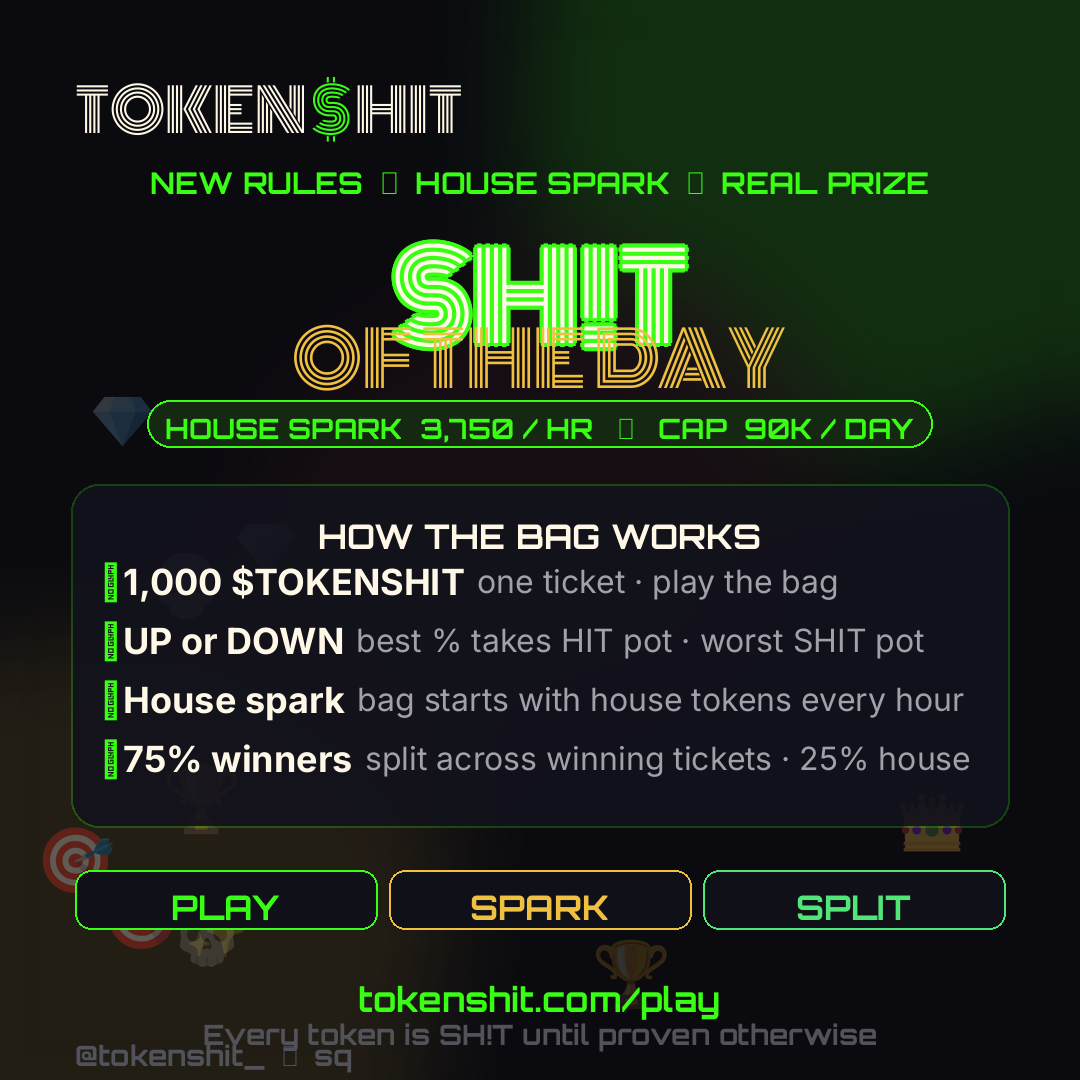
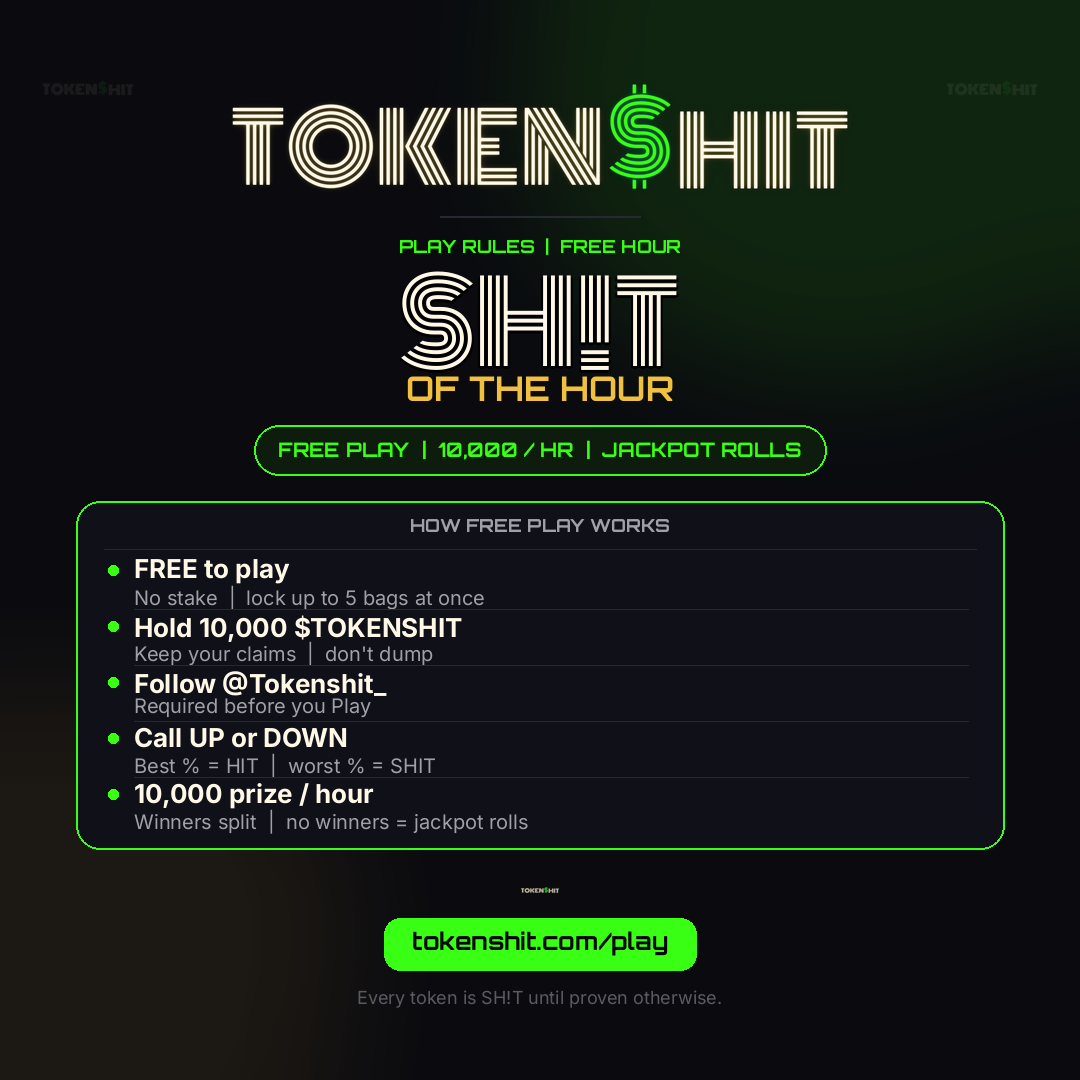
feat: free Play square poster (10k/hr, 5 bags, hold 10k)
Regenerate brand play poster for free hour rules.

diff --git a/scripts/generate-play-poster.py b/scripts/generate-play-poster.py
@@ -157,7 +157,7 @@ def build() -> Image.Image:
     d.line([(mid - 100, y), (mid + 100, y)], fill=LINE, width=2)
     y += 22
 
-    y = draw_centered(d, y, "PLAY RULES  |  HOUSE PRIZE", f_eye, NEON) + 16
+    y = draw_centered(d, y, "PLAY RULES  |  FREE HOUR", f_eye, NEON) + 16
 
     # product line
     hero = "SH!T"
@@ -169,10 +169,10 @@ def build() -> Image.Image:
     d.text((hx, hy), hero, font=f_hero, fill=CREAM)
     y += (hb[3] - hb[1]) + 6
 
-    y = draw_centered(d, y, "OF THE DAY", f_sub, GOLD) + 24
+    y = draw_centered(d, y, "OF THE HOUR", f_sub, GOLD) + 24
 
     # prize pill
-    pill = "SPARK 3,750/HR  |  DAY CAP 90K"
+    pill = "FREE PLAY  |  10,000 / HR  |  JACKPOT ROLLS"
     pw = tw(f_pill, pill) + 48
     ph = 50
     px = (S - pw) // 2
@@ -192,24 +192,18 @@ def build() -> Image.Image:
 
     # rules card
     rules = [
-        ("1,000 $TOKENSHIT", "One ticket into the bag"),
-        ("Call UP or DOWN", "Best % wins HIT · worst wins SHIT"),
-        ("House spark", "We seed the bag every hour"),
-        ("75% to winners", "Split by tickets · 25% house"),
-    ]
-    # mid-dot may box in some fonts for sub — use | and -
-    rules = [
-        ("1,000 $TOKENSHIT", "One ticket into the bag"),
-        ("Call UP or DOWN", "Best % wins HIT  |  worst wins SHIT"),
-        ("House spark", "We seed the bag every hour"),
-        ("75% to winners", "Split by tickets  |  25% house"),
+        ("FREE to play", "No stake  |  lock up to 5 bags at once"),
+        ("Hold 10,000 $TOKENSHIT", "Keep your claims  |  don't dump"),
+        ("Follow @Tokenshit_", "Required before you Play"),
+        ("Call UP or DOWN", "Best % = HIT  |  worst % = SHIT"),
+        ("10,000 prize / hour", "Winners split  |  no winners = jackpot rolls"),
     ]
 
     inner_x = M + 4
     inner_w = S - 2 * (M + 4)
-    row_h = 64
-    card_pad_y = 20
-    header_h = 32
+    row_h = 56
+    card_pad_y = 18
+    header_h = 30
     card_h = card_pad_y + header_h + 10 + row_h * len(rules) + 10
 
     d.rounded_rectangle(
@@ -223,25 +217,25 @@ def build() -> Image.Image:
     )
 
     cy = y + card_pad_y
-    draw_centered(d, cy, "HOW THE BAG WORKS", f_card_h, MUTED)
+    draw_centered(d, cy, "HOW FREE PLAY WORKS", f_card_h, MUTED)
     cy += header_h
     d.line([(inner_x + 28, cy), (inner_x + inner_w - 28, cy)], fill=LINE, width=1)
-    cy += 12
+    cy += 10
 
     text_left = inner_x + 32
     for i, (title, sub) in enumerate(rules):
         ry = cy + i * row_h
-        d.ellipse([text_left, ry + 8, text_left + 10, ry + 18], fill=NEON)
+        d.ellipse([text_left, ry + 6, text_left + 10, ry + 16], fill=NEON)
         tx = text_left + 26
         tb = f_rule.getbbox(title)
         d.text((tx - tb[0], ry - tb[1]), title, font=f_rule, fill=CREAM)
         sb = f_rule_sub.getbbox(sub)
-        d.text((tx - sb[0], ry + 28 - sb[1]), sub, font=f_rule_sub, fill=MUTED)
+        d.text((tx - sb[0], ry + 26 - sb[1]), sub, font=f_rule_sub, fill=MUTED)
         if i < len(rules) - 1:
             ly = ry + row_h - 6
             d.line([(tx, ly), (inner_x + inner_w - 36, ly)], fill=LINE, width=1)
 
-    y += card_h + 20
+    y += card_h + 18
 
     foot = "Every token is SH!T until proven otherwise."
     foot_h = th(f_foot, foot)
@@ -281,6 +275,7 @@ def main():
     for p in (
         OUT / "play-square.png",
         OUT / "play-1200.png",
+        OUT / "play-poster.png",
         BRAND / "play-poster.png",
     ):
         im.save(p, "PNG", optimize=True)
@@ -289,6 +284,10 @@ def main():
     p2 = OUT / "play-square@2x.png"
     im2.save(p2, "PNG", optimize=True)
     print("wrote", p2)
+    # also brand 2x
+    p3 = BRAND / "play-poster@2x.png"
+    im2.save(p3, "PNG", optimize=True)
+    print("wrote", p3)
 
 
 if __name__ == "__main__":
